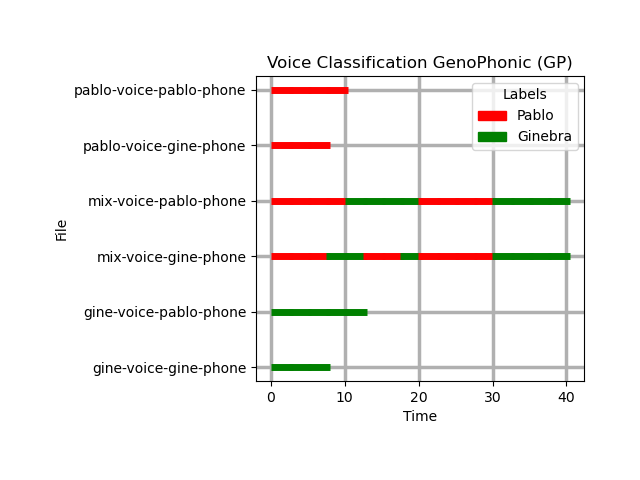
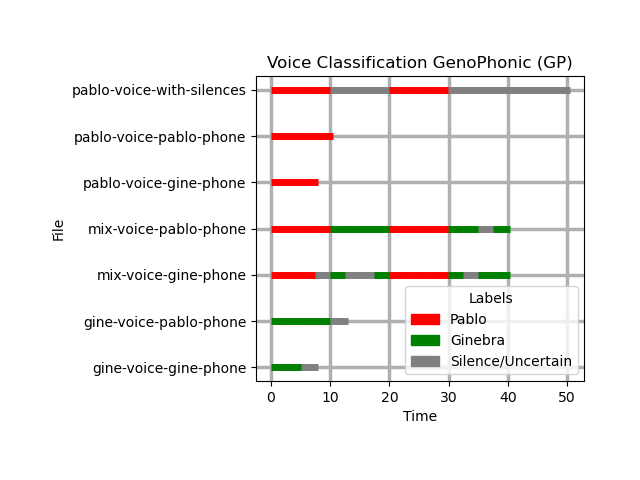
uncertainty quantification

diff --git a/src/evaluate.py b/src/evaluate.py
@@ -1,25 +1,42 @@
 import os
 import sys
+import numpy as np
 import torch
 from tqdm import tqdm
 from torch.utils.data import DataLoader
 from sklearn.model_selection import train_test_split
 from dataset import GPDataset
 from model import ASTModel
-from utils import set_seed, convert_to_list
+from utils import set_seed, convert_to_list, plot_predicted_windows
 
 def evaluate(model, test_loader, device):
     model.eval()
     correct = 0
     total = 0
+    energy_threshold = 3  # values above this are for class 1, below -energy_threshold are for class 0 and in between are for class 2 (uncertain)
     incorrect_files = {}
-    additional_info_complete = {'file': [], 'time_start': [], 'time_end': [], 'predicted': []}
+    additional_info_complete = {'file': [], 'time_start': [], 'time_end': [], 'predicted': [], 'probability': []}
     with torch.no_grad():
         for inputs, labels, additional_info in tqdm(test_loader):
             inputs, labels = inputs.to(device), labels.float().to(device).unsqueeze(1)
             inputs = inputs.permute(0, 2, 1)
             outputs = model(inputs).float()
-            predicted = (torch.nn.functional.sigmoid(outputs) > 0.5).float()  # for binary classification
+            
+            # # Determining the label with softmax probabilities
+            # probability = torch.sigmoid(outputs)
+            # predicted = (probability > 0.5).float()
+            
+            # Determining the label with energy threshold
+            predicted = torch.where(outputs > energy_threshold, torch.tensor(1).to(device), torch.where(outputs < -energy_threshold, torch.tensor(0).to(device), torch.tensor(2).to(device)))
+            
+            # # Let's find silent windows
+            # for input_feature in inputs:
+            #     rms = torch.mean(input_feature).item()
+            #     # # Determine the label
+            #     # if rms < silence_threshold:
+            #     #     label = 2  # Label for silence
+                
+                
             total += labels.size(0)
             correct += (predicted == labels).sum().item()
             
@@ -33,13 +50,12 @@ def evaluate(model, test_loader, device):
                         incorrect_files[audio_file] = 1
             
             print(f'For file {additional_info["file"][0]:s}, with window starting at {additional_info["time_start"].item():.1f}s and ending at {additional_info["time_end"].item():.1f}s:')
-            print(f'Predicted: {predicted.squeeze().item()}')
+            print(f'Predicted: {predicted.squeeze().item()}, with output value: {outputs.squeeze().item():.2f}')
             
             predicted_complete = additional_info_complete['predicted'] + convert_to_list(predicted.squeeze(1))
             additional_info_complete = {key: additional_info_complete[key] + convert_to_list(additional_info[key]) for key in additional_info}
             additional_info_complete['predicted'] = predicted_complete
             
-    print(additional_info_complete)
     accuracy = 100 * correct / total
     
     return accuracy, incorrect_files, additional_info_complete
@@ -94,61 +110,10 @@ def main(
     # print(f'Incorrectly predicted files: {incorrect_files}')
     # print(f'Number of incorrectly predicted files: {len(incorrect_files)}') 
     
-    ###
-    import matplotlib.pyplot as plt 
-
-    # Enable grid
-    # Create a figure and axis
-    data_dict = additional_info_complete
-    fig, ax = plt.subplots()
-
-    # Get unique filenames to plot them separately
-    unique_files = sorted(set(data_dict['file']))
-
-    # Define colors for labels
-    colors = {0: 'red', 1: 'green'}
-
-    # Iterate over unique filenames
-    for file in unique_files:
-        # Get indices where filename matches
-        indices = [i for i, fname in enumerate(data_dict['file']) if fname == file]
-        
-        # Plot each window for this file
-        for idx in indices:
-            start_time = data_dict['time_start'][idx]
-            end_time = data_dict['time_end'][idx]
-            label = data_dict['predicted'][idx]
-            
-            # Draw a horizontal line for each window
-            ax.hlines(y=file, xmin=start_time, xmax=end_time, color=colors[label], linewidth=5)
-
-    # Set labels and title
-    ax.set_xlabel('Time')
-    ax.set_ylabel('File')
-    ax.set_title('Voice Classification GenoPhonic (GP)')
-
-    ax.set_yticks(range(len(unique_files)))
-    ax.set_yticklabels(unique_files)
-
-    # Adjust y-axis label rotation and spacing
-    plt.yticks(rotation=0)  # Rotate y-axis labels for better fit
-    plt.tight_layout(pad=4)  # Adjust layout to make space for y-axis labels
-
-    # Increase space on the left to fit the labels
-    plt.subplots_adjust(left=0.4)
+    save_plot_dir = os.path.join(script_dir, '../images/test-predicted.png')
+    label_names={0: 'Pablo', 1: 'Ginebra', 2:'Silence/Uncertain'}
+    plot_predicted_windows(additional_info_complete, save_plot_dir, label_names=label_names)
     
-    import matplotlib
-    
-    # Create custom legend
-    red_patch = matplotlib.patches.Patch(color='red', label='Pablo')
-    green_patch = matplotlib.patches.Patch(color='green', label='Ginebra')
-
-    # Add legend to plot
-    plt.legend(handles=[red_patch, green_patch], title='Labels', loc='upper right')
-    plt.grid(True, linewidth=2.5)
-    
-    plt.savefig(os.path.join(script_dir, '../images/test-predicted.png'))
-    ###
     
 if __name__ == "__main__":
     main()

diff --git a/src/utils.py b/src/utils.py
@@ -1,6 +1,9 @@
+import os
 import random
 import numpy as np
 import torch
+import matplotlib.pyplot as plt 
+import matplotlib
 
 def set_seed(seed):
     """
@@ -19,3 +22,53 @@ def convert_to_list(value):
         return value.tolist()
     return value
 
+def plot_predicted_windows(data_dict, save_plot_dir, label_names={0: 'Pablo', 1: 'Ginebra', 2:'Silence/Uncertain'}):
+    # Enable grid
+    # Create a figure and axis
+    fig, ax = plt.subplots()
+
+    # Get unique filenames to plot them separately
+    unique_files = sorted(set(data_dict['file']))
+
+    # Define colors for labels
+    colors = {0: 'red', 1: 'green', 2: 'gray'}
+
+    # Iterate over unique filenames
+    for file in unique_files:
+        # Get indices where filename matches
+        indices = [i for i, fname in enumerate(data_dict['file']) if fname == file]
+        
+        # Plot each window for this file
+        for idx in indices:
+            start_time = data_dict['time_start'][idx]
+            end_time = data_dict['time_end'][idx]
+            label = data_dict['predicted'][idx]
+            
+            # Draw a horizontal line for each window
+            ax.hlines(y=file, xmin=start_time, xmax=end_time, color=colors[label], linewidth=5)
+
+    # Set labels and title
+    ax.set_xlabel('Time')
+    ax.set_ylabel('File')
+    ax.set_title('Voice Classification GenoPhonic (GP)')
+
+    ax.set_yticks(range(len(unique_files)))
+    ax.set_yticklabels(unique_files)
+
+    # Adjust y-axis label rotation and spacing
+    plt.yticks(rotation=0)  # Rotate y-axis labels for better fit
+    plt.tight_layout(pad=4)  # Adjust layout to make space for y-axis labels
+
+    # Increase space on the left to fit the labels
+    plt.subplots_adjust(left=0.4)
+    
+    # Create custom legend
+    # red_patch = matplotlib.patches.Patch(color='red', label='Pablo')
+    # green_patch = matplotlib.patches.Patch(color='green', label='Ginebra')
+    handles = [matplotlib.patches.Patch(color=colors[label], label=label_names[label]) for label in colors]
+
+    # Add legend to plot
+    plt.legend(handles=handles, title='Labels', loc='lower right')
+    plt.grid(True, linewidth=2.5)
+    
+    plt.savefig(save_plot_dir)

diff --git a/src/test.py b/src/test.py
@@ -9,7 +9,8 @@ sys.path.append(script_dir)
 # Load the test wave (normally done in data_processing.py)
 
 test_wav_dir = os.path.join(script_dir, '../data/test-wav')
-processed_dir = os.path.join(script_dir, '../data/test-processed')
+processed_relative_dir = '../data/test-processed'
+processed_dir = os.path.join(script_dir, processed_relative_dir)
 if not os.path.exists(processed_dir):
     os.makedirs(processed_dir)
 
@@ -26,8 +27,7 @@ for file_path in os.listdir(test_wav_dir):
     mel_spec = librosa.feature.melspectrogram(y=y, sr=sr, n_mels=n_mels, hop_length=hop_length)
     mel_spec_db = librosa.power_to_db(mel_spec, ref=np.max)
     np.save(processed_path, mel_spec_db)
-    
 
 
 if __name__ == "__main__":
-    evaluate_main(data_dir='../data/test-processed', labels_file=None, batch_size=1, test_size=1.)
+    evaluate_main(data_dir=processed_relative_dir, labels_file=None, batch_size=1, test_size=1.)
